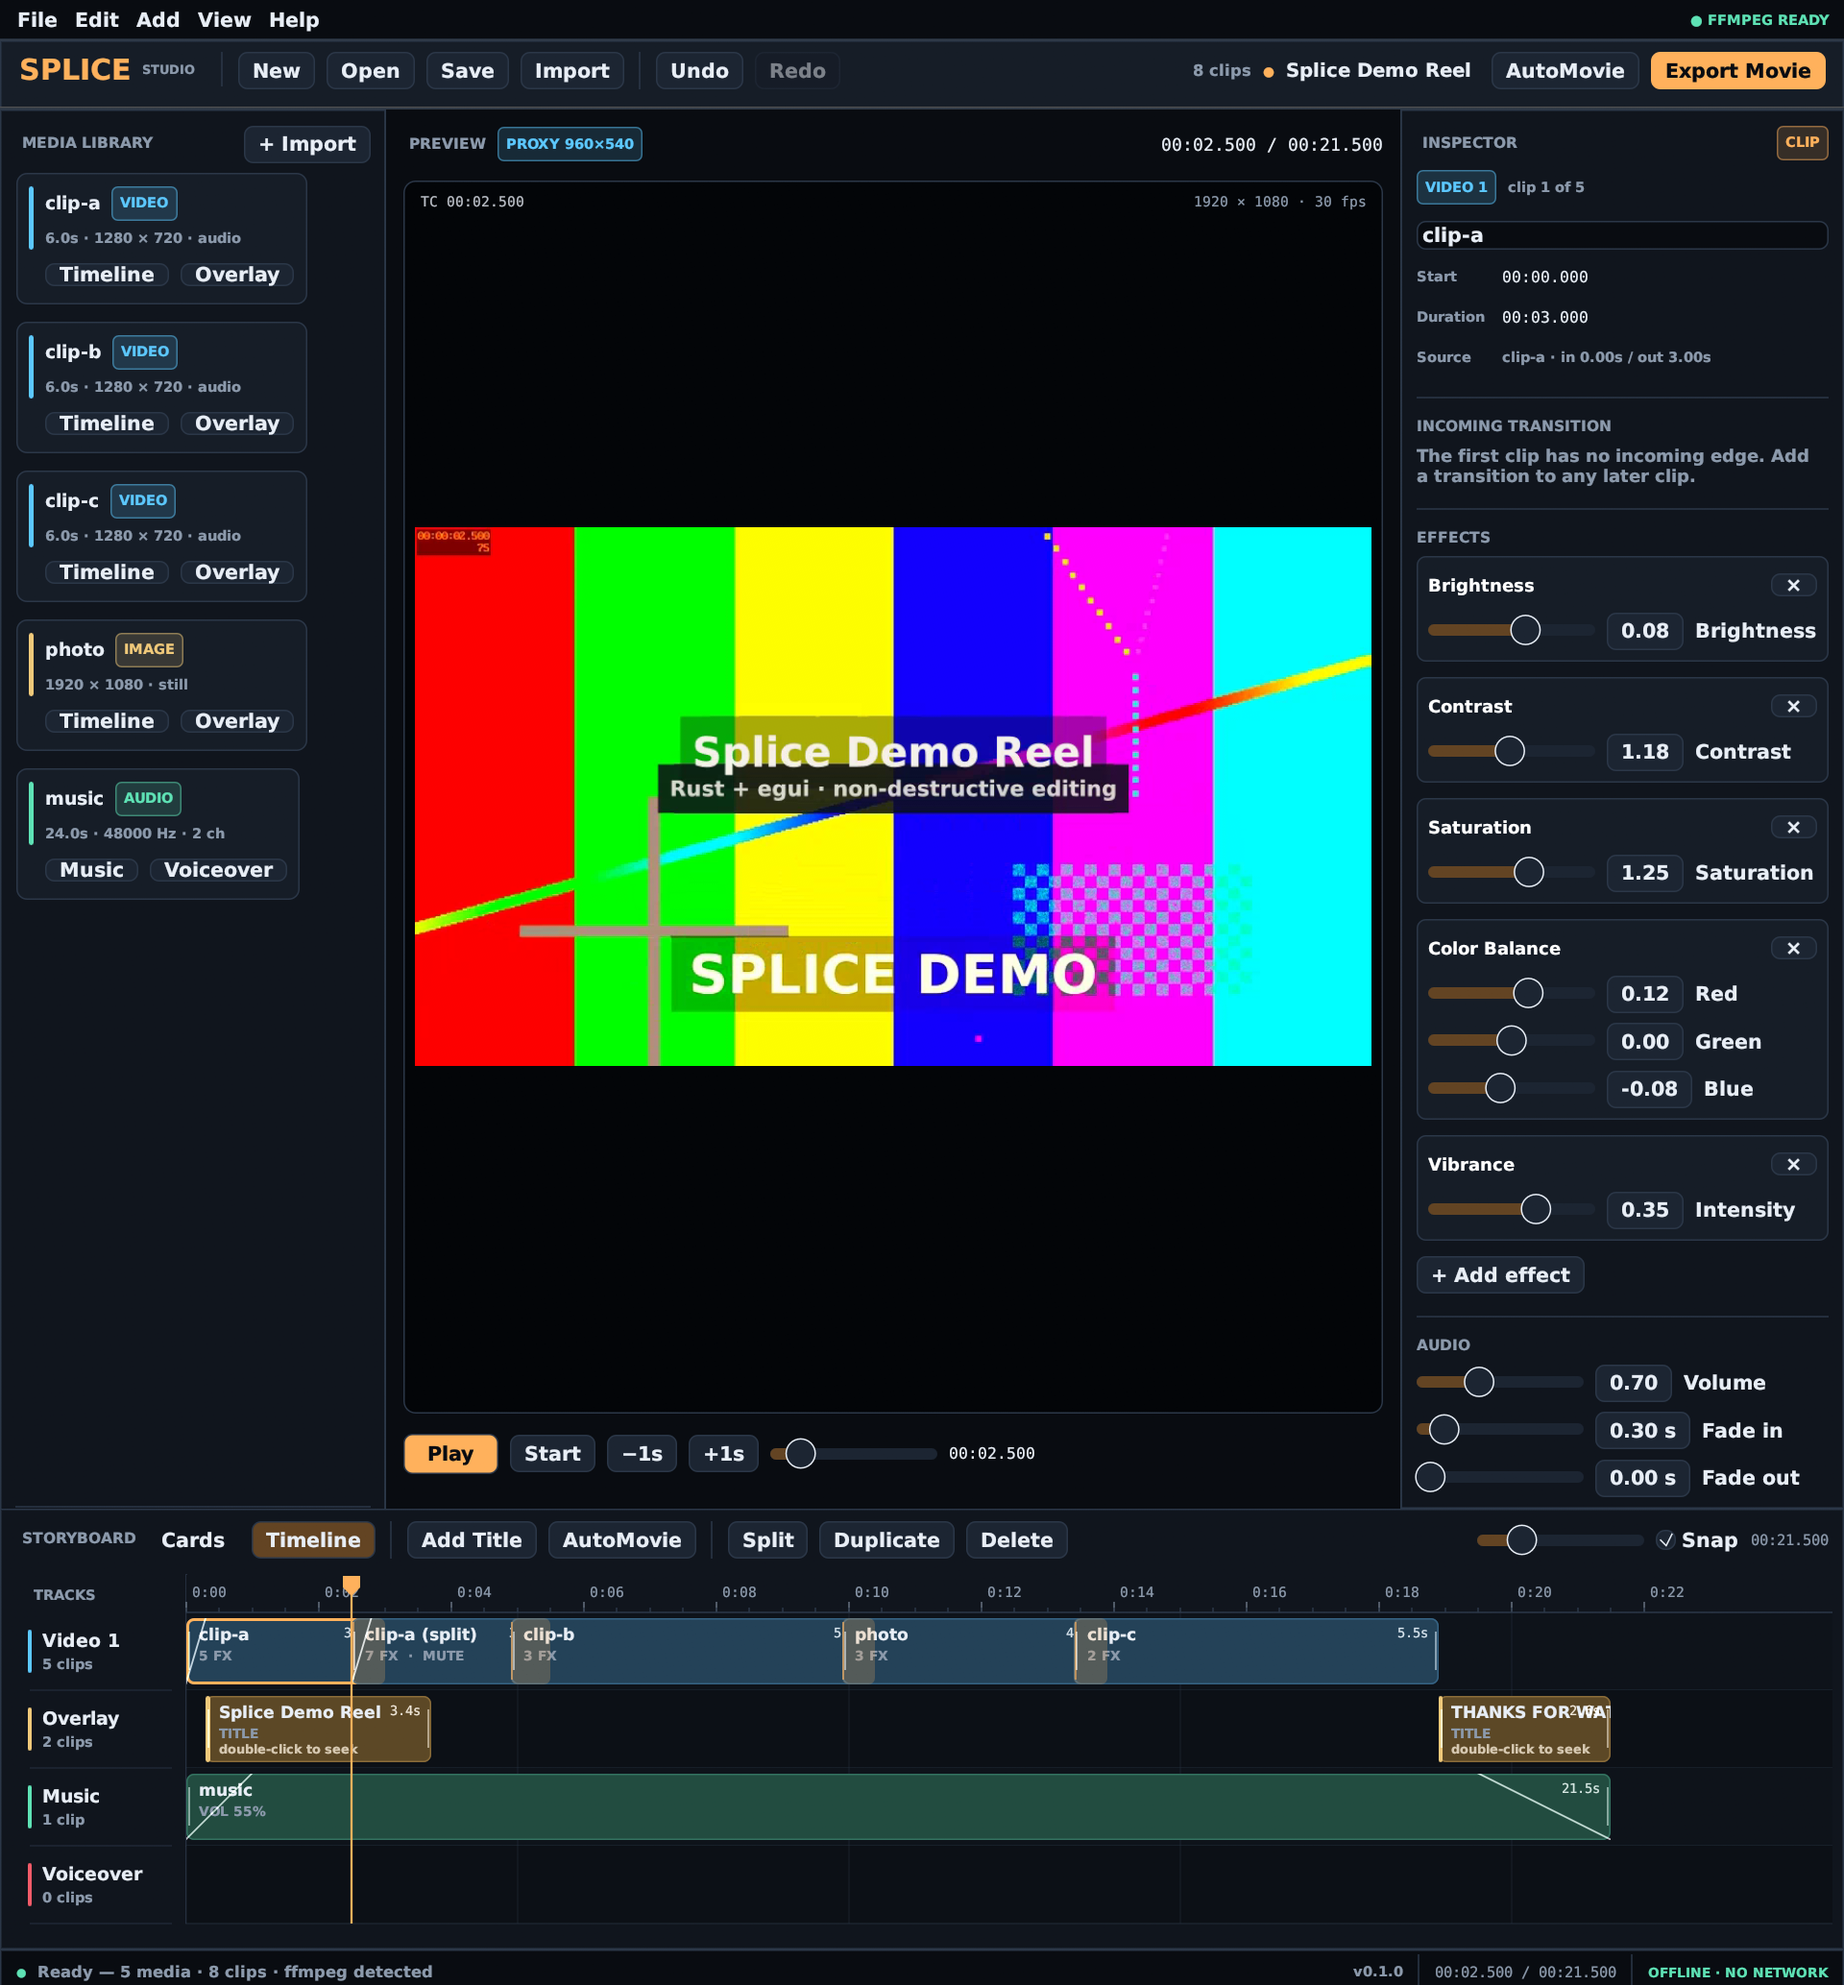
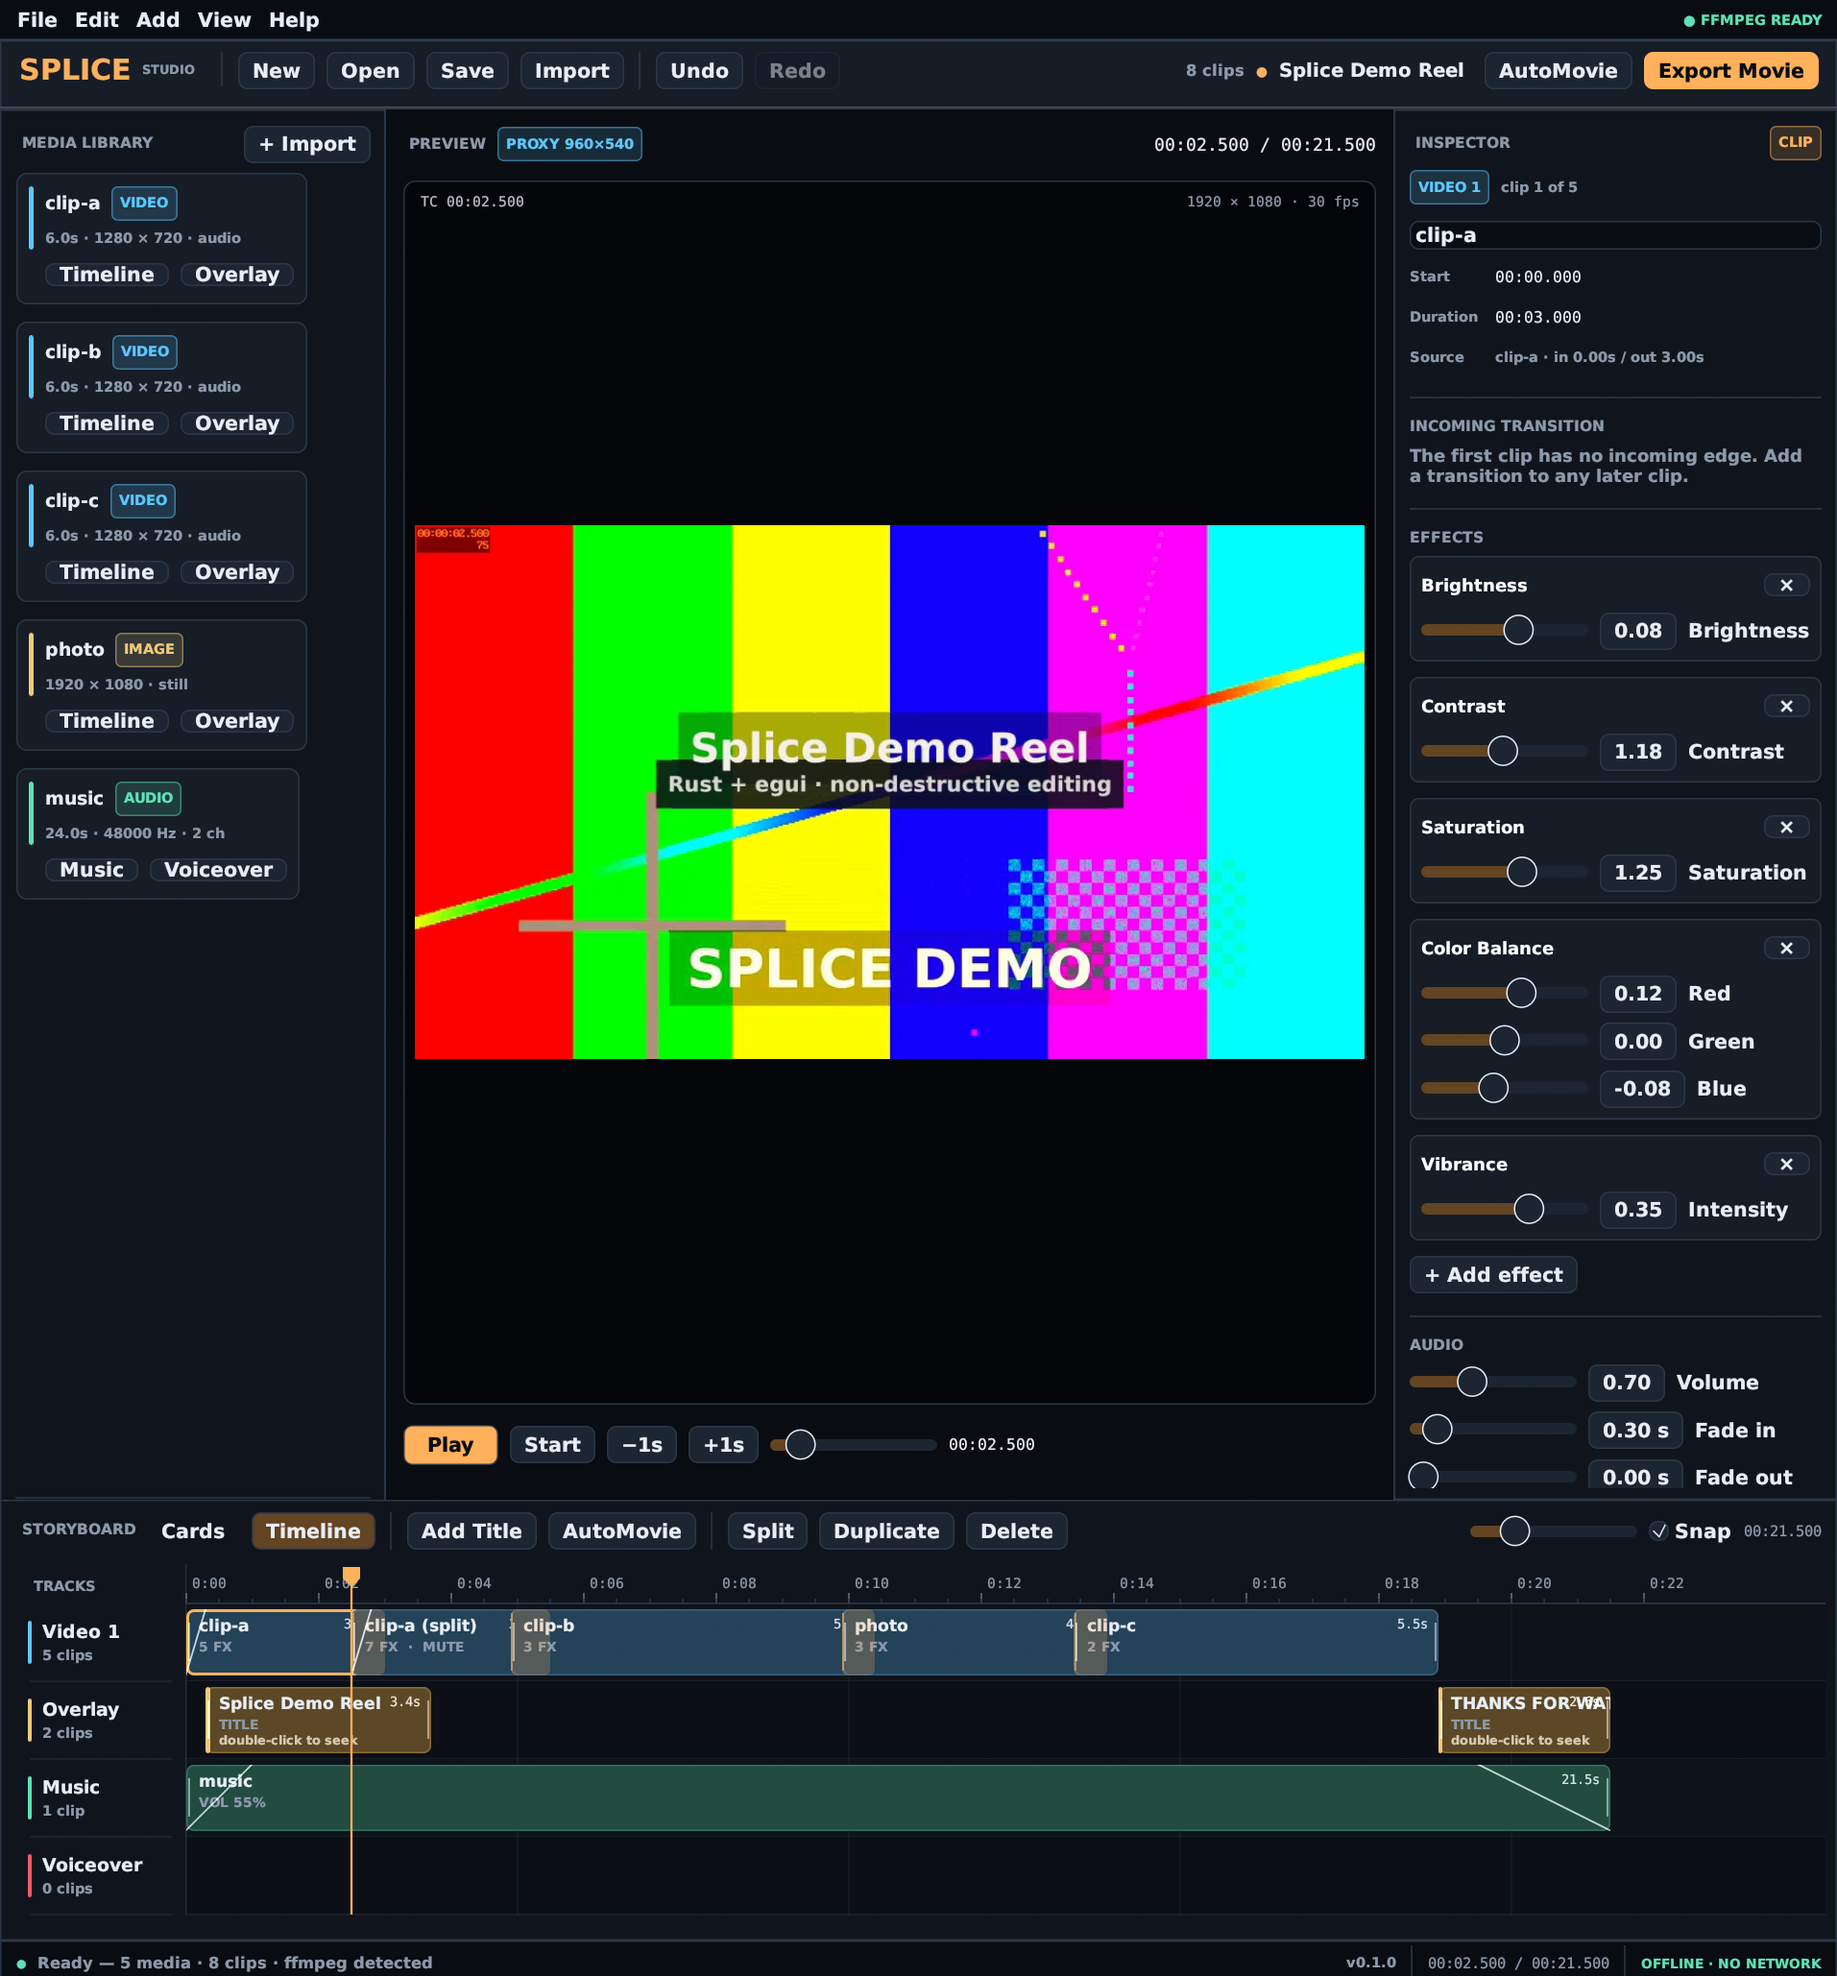
Refresh README and add screenshot and MIT license
Condense the project overview, use a current app capture, and make the MIT
licensing explicit.

🤖 Generated with Codebuff

diff --git a/README.md b/README.md
@@ -1,112 +1,63 @@
 # Splice
 
-Splice is a native Linux timeline video editor written in Rust with egui/eframe.
-Editing is non-destructive, preview is rendered through an ffmpeg proxy, and
-export is a single deterministic ffmpeg graph shared by the GUI and the CLI.
-Splice is fully offline: no network calls, telemetry, uploads or auto-update.
+Splice is a Linux timeline video editor written in Rust with egui/eframe. It
+uses system ffmpeg for media probing, proxy preview, and H.264/AAC export.
+Projects are versioned JSON documents with the `.splice` extension.
 
 ![Splice editing the demo project](docs/screenshot.png)
 
 ## Features
 
-- Storyboard and multi-track timeline: `Video 1`, `Overlay`, `Music`, `Voiceover`.
-- Media library with ffprobe probing, offline detection and validated relinking.
-- 58 transitions (the full ffmpeg `xfade` set) and 38 effects covering tone,
-  colour, denoise, blur, distortion, pixelation and colour-ramp looks, plus 10
-  animated title styles.
-- Categorized effect picker with live search, and a searchable transition menu.
-- AutoMovie: opening title, scene crossfades, closing credits and an optional
-  music bed fitted to the movie length.
-- Voiceover recording from the default input through cpal.
-- Split, trim, duplicate, reorder, multi-select-free inspector editing, and
-  snapshot undo/redo with gesture coalescing.
-- Proxy preview (960 × 540) with soundtrack monitoring on the default output;
-  the output stream reopens after device errors and resumes at the playhead.
-- Title fonts are validated through fontconfig, with a warning when libass would
-  substitute a different family.
-- Atomic `.splice` saves and a versioned JSON project format.
-- Locked H.264/AAC export presets (1080p, 720p, 480p); the same encoder runs
-  from the GUI and the CLI.
-- Source media is referenced and validated, never copied or rewritten.
+- Storyboard and four-track timeline: Video 1, Overlay, Music, Voiceover.
+- 58 transitions, 38 effects, and 10 title styles.
+- Searchable effect and transition menus.
+- AutoMovie titles, crossfades, credits, and optional music.
+- Proxy preview with audio monitoring; output recovers after device errors.
+- Voiceover recording, media relinking, and offline-media validation.
+- Atomic saves and a versioned project format.
+- 1080p, 720p, and 480p H.264/AAC presets shared by the GUI and CLI.
 
 ## Requirements
 
-- Linux with Wayland or X11 and working OpenGL (eframe/glow).
-- Rust 1.88 or newer (edition 2024).
+- Linux with Wayland or X11 and OpenGL.
+- Rust 1.88 or newer.
 - System `ffmpeg` and `ffprobe` with the `libx264` and `aac` encoders.
-- DejaVu fonts for the UI and the default title look. Other installed fonts are
-  offered in the title editor.
-- A default audio input for voiceover and a default output for preview audio.
-
-Verify the encoder toolchain:
-
-```sh
-ffmpeg -hide_banner -encoders | grep -E '^[VAS].* (libx264|aac) '
-```
+- DejaVu fonts for the default UI and title look. Other installed fonts can be
+  selected.
+- A default audio input and output for voiceover and preview monitoring.
 
 ## Build and run
 
 ```sh
 cargo build --release
-./target/release/splice                 # empty project
-./target/release/splice movie.splice    # open an existing project
+./target/release/splice                 # new project
+./target/release/splice movie.splice    # open a project
 ```
 
-Keyboard controls: `Space` play/pause, `Ctrl/Cmd+S` save, `Ctrl/Cmd+O` open,
-`Ctrl/Cmd+E` export, `Ctrl/Cmd+Z` undo, `Shift+Ctrl/Cmd+Z` redo, `S` split at
-the playhead, `D` duplicate, `Delete` remove the selected clip.
+Keyboard: `Space` play/pause, `Ctrl+S` save, `Ctrl+O` open, `Ctrl+E` export,
+`Ctrl+Z`/`Ctrl+Shift+Z` undo/redo, `S` split, `D` duplicate, `Delete` remove.
 
 ## CLI
 
 ```sh
-# Export a project. Presets are the only supported encoder settings.
 splice export --project docs/demo.splice --preset 1080p --output movie.mp4
-
-# Probe any media file with the system ffprobe.
 splice probe docs/media/clip-a.mp4
-
-# Record from the default input and fail if the capture is silent.
 splice voicecheck --seconds 4 --output voice.wav
 ```
 
-Export exits `0` only after a complete, non-empty file has been atomically
-renamed into place. Empty timelines, offline media, a non-`.mp4` output path,
-or an output that resolves to a source file are refused with a non-zero exit
-and no partial output.
+Export returns `0` only after a complete file is written. Missing media, empty
+timelines, invalid output paths, and source-overwrite attempts fail without
+partial output.
 
-For verification screenshots, the GUI can capture its real framebuffer:
-
-```sh
-splice docs/demo.splice --playhead 2.5 \
-    --screenshot /tmp/splice.png --exit-after-screenshot
-```
-
-## Reproducible demo
+## Demo
 
 ```sh
 bash scripts/demo.sh
 ```
 
-The script generates every fixture locally with ffmpeg `lavfi` sources (no
-network), imports them through the real ffprobe/library path, writes
-`docs/demo.splice`, exports `docs/demo.mp4` at 1080p through the CLI, then
-captures the running GUI to `docs/screenshot.png`. Set `SKIP_SCREENSHOT=1` on a
-headless machine. The output paths can be overridden with `DEMO_MEDIA_DIR`,
-`DEMO_PROJECT`, `DEMO_OUTPUT` and `DEMO_SCREENSHOT`.
-
-## Project format and export contract
-
-- [Project format](docs/PROJECT_FORMAT.md) — envelope, media, tracks, clips,
-  effects, transitions, titles, save/load guarantees and compatibility policy.
-- [Export presets](docs/EXPORT_PRESETS.md) — resolution, encoder settings,
-  container, audio, GUI/CLI behaviour and refusal rules.
-- [Verification log](docs/VERIFICATION.md) — append-only evidence from the
-  machine that built and ran the delivery.
-
-Projects are UTF-8 JSON with the `.splice` extension. Saves write a temporary
-file in the destination directory, fsync it, then rename it over the project,
-so a crash cannot leave a truncated document. Unknown newer schema versions are
-refused rather than guessed.
+This creates local ffmpeg fixtures, imports them through the library, writes
+`docs/demo.splice`, exports `docs/demo.mp4`, and captures `docs/screenshot.png`.
+Set `SKIP_SCREENSHOT=1` on a headless machine.
 
 ## Tests
 
@@ -117,40 +68,14 @@ cargo fmt --check
 bash scripts/check-msrv.sh   # requires rustup and Rust 1.88.0
 ```
 
-The deterministic suite covers the project round-trip, version refusal, offline
-assets and relinking, every transition/effect/title style, AutoMovie, export at
-all three presets, CLI blocking, and measured frame/audio properties.
+Audio tests marked ignored require a default output device.
 
-The preview audio path is hardware-backed, so its gates are marked ignored for
-headless machines. Run them where a default output exists:
+## Documentation
 
-```sh
-cargo test --lib audio::tests::audio_monitor_plays_decoded_audio -- --ignored --nocapture
-cargo test --lib preview::tests::playback_starts_audio_monitor -- --ignored --nocapture
-```
+- [Project format](docs/PROJECT_FORMAT.md)
+- [Export presets](docs/EXPORT_PRESETS.md)
+- [Verification log](docs/VERIFICATION.md)
 
-## Source layout
+## License
 
-| Path | Responsibility |
-| --- | --- |
-| `src/model.rs` | Project schema, clips, tracks, titles, invariants |
-| `src/project_io.rs` | Atomic save, versioned load, path normalization, validation |
-| `src/library.rs` | ffprobe import and validated relink |
-| `src/edit.rs` | Split, trim, duplicate, reorder and storyboard reflow |
-| `src/history.rs` | Snapshot undo/redo with gesture coalescing |
-| `src/render.rs` | One ffmpeg filter graph for preview and export |
-| `src/preview.rs` | Proxy rendering, frame decode, playback and audio monitoring |
-| `src/audio.rs` | cpal voiceover capture and preview output monitoring |
-| `src/titles.rs` | ASS title rendering shared by preview and export |
-| `src/timeline_ui.rs` | Storyboard and timeline interaction/painting |
-| `src/app.rs` | Editor shell, dialogs, shortcuts and panels |
-| `src/main.rs` | CLI entry point |
-
-## Limitations
-
-- Export presets are locked by contract; there is no custom resolution, frame
-  rate, codec or bitrate UI.
-- Preview is a 960 × 540 proxy and is re-rendered shortly after edits. Preview
-  audio and video follow the same wall clock, so a seek restarts monitoring.
-- System ffmpeg/ffprobe are required; no encoder is bundled.
-- Titles are rendered through libass, so fonts must be installed on the host.
+MIT. See [LICENSE](LICENSE).
